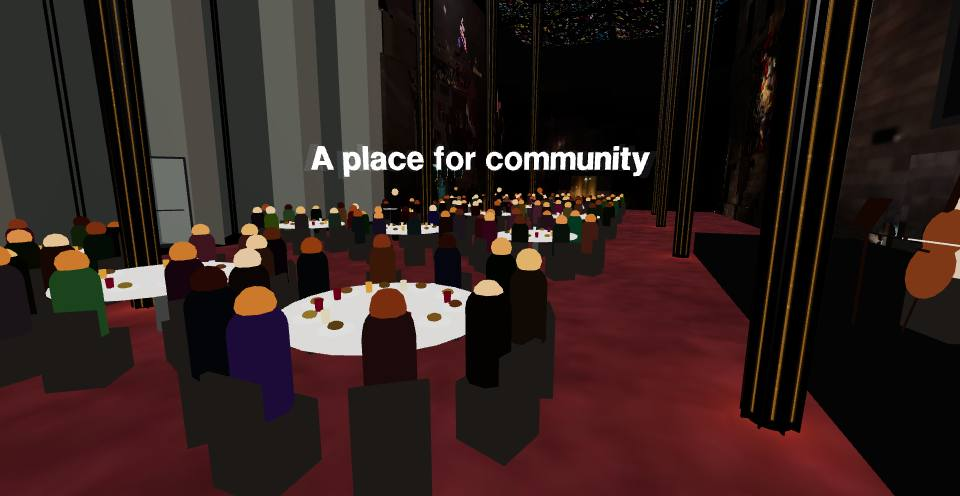
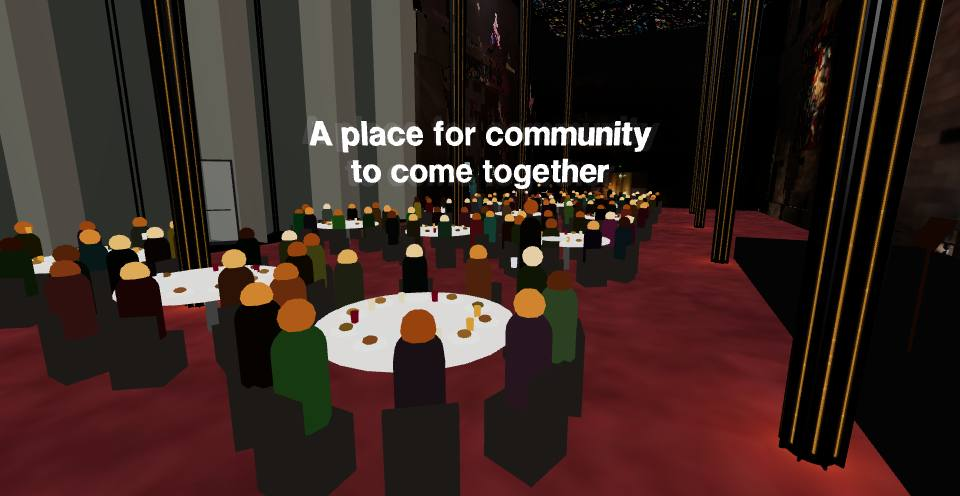
Shot 2 (Lloyd's note, V7) reads A place for community / to come together, on two rows

diff --git a/index.html b/index.html
@@ -3599,7 +3599,7 @@ function finaleStep(s){ if(!finale)finaleStart(); if(!finale)return; const F=fin
 // line splits off the glint word, ' / ' stacks a second row under the first, and a row in *...*
 // is stained glass ('*Gandel Hall* / Is brought to |light'). finale is the year under the triangle,
 // sculpture the tag over the marks (both built once, so they take the file as it was at load).
-const TOUR_TEXT={"rainbow-columns":[["A special space / In Melbourne's heart",0,4.4],["Carefully crafted over decades",4.4,8.8],["*Gandel Hall* / Is brought to |light",8.8,13.2]],"dinner":[["A place for community to come together",5.5,11]],"banquet":[["~Where / ~Rich history and modern tradition / ~Meet",2.5,13.5]],"party":[["A place to have fun!",2,8]],"party-celebrate":[["and celebrate amongst friends",2.3,8.5]],"standing":[["Somewhere for people to share their ideas",2,8]],"wedding-aisle":[["and to celebrate love",2,8]],"finale":[["",0,0]],"finale-top":[["GANDEL HALL",0,0]],"sculpture":[["BROUGHT TO LIGHT BY",0,0]]};
+const TOUR_TEXT={"rainbow-columns":[["A special space / In Melbourne's heart",0,4.4],["Carefully crafted over decades",4.4,8.8],["*Gandel Hall* / Is brought to |light",8.8,13.2]],"dinner":[["A place for community / to come together",5.5,11]],"banquet":[["~Where / ~Rich history and modern tradition / ~Meet",2.5,13.5]],"party":[["A place to have fun!",2,8]],"party-celebrate":[["and celebrate amongst friends",2.3,8.5]],"standing":[["Somewhere for people to share their ideas",2,8]],"wedding-aisle":[["and to celebrate love",2,8]],"finale":[["",0,0]],"finale-top":[["GANDEL HALL",0,0]],"sculpture":[["BROUGHT TO LIGHT BY",0,0]]};
 fetch('storyboard/titles.json?v='+Date.now()).then(r=>r.ok?r.json():null).then(j=>{ if(j)Object.assign(TOUR_TEXT,j); }).catch(()=>{});
 const TX=k=>(TOUR_TEXT[k]||[]).map(([t,a,b])=>[t,a,b]);
 const TX1=(k,d)=>((TOUR_TEXT[k]||[])[0]||[d])[0]||d;

diff --git a/tour-storyboard.md b/tour-storyboard.md
@@ -333,7 +333,7 @@ V4 (sent 01/09/2026 23:40:47):
 [shot 7, 11.8 s] make sure the bride and groom don't clip into each other during the dip
 
 V5 (draft):
-
+[shot 7, 11.3 s] when they dip
 
 ---
 
